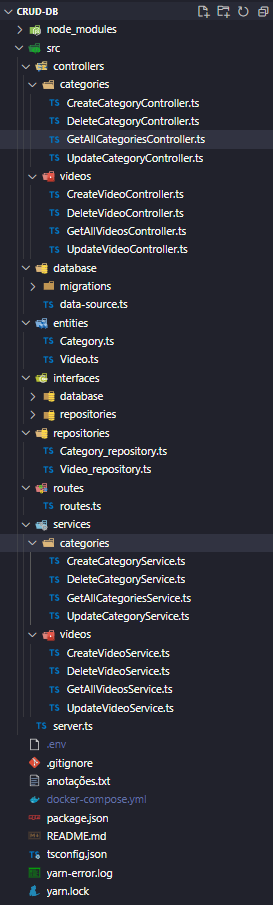
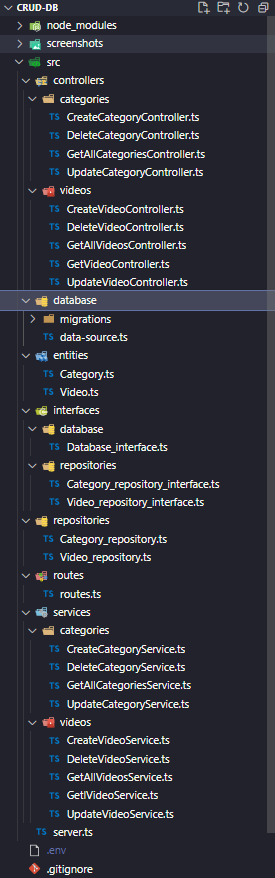
Att.

Changed region(s): [[0.0, 0.0, 1.0, 1.0], [0.7912, 0.0, 0.9084, 0.0308], [0.7033, 0.0, 0.7619, 0.0308]]

diff --git a/src/controllers/videos/GetVideoController.ts b/src/controllers/videos/GetVideoController.ts
@@ -1,6 +1,6 @@
 import { Request, Response } from "express";
 import { AppDataSource } from "../../database/data-source";
-import { GetVideoService } from "../../services/videos/GetlVideoService";
+import { GetVideoService } from "../../services/videos/GetVideoService";
 
 class GetVideoController {
     async handle(request: Request, response: Response) {

diff --git a/README.md b/README.md
@@ -122,6 +122,7 @@
             <p>DeleteCategoryService: https://prnt.sc/NIZfh3T5y9ks</p>
             <!-- Camada de Vídeos -->
             <p>CreateVideoService: https://prnt.sc/0JNx8h9XAS9D</p>
+            <p>GetVideoService: https://prnt.sc/zR6lsCsV9GLm</p>
             <p>GetAllVideosService: https://prnt.sc/NBx6ka13dy0p</p>
             <p>UpdateVideoService: https://prnt.sc/TTndF0wSLvHx</p>
             <p>DeleteVideoService: https://prnt.sc/QsyeAKNqppCy</p>
@@ -136,6 +137,7 @@
             <p>UpdateCategoryController: https://prnt.sc/e3X9yKOO-RN_</p>
             <!-- Camada de Vídeos -->
             <p>CreateVideoController: https://prnt.sc/QpDVFgLexidZ</p>
+            <p>GetVideoController: https://prnt.sc/hTb4XHE8sAVC</p>
             <p>GetAllVideosController: https://prnt.sc/TjHuvk0qgjGR</p>
             <p>UpdateVideoController: https://prnt.sc/KmvcDRUxp6DJ</p>
             <p>DeleteVideoController: https://prnt.sc/_CldiyAgQCaI</p>
@@ -151,12 +153,13 @@
             <!-- Camada de Vídeos -->
             <p>Rota (POST) "/videos": https://prnt.sc/sM7OU4DjOq4N</p>
             <p>Rota (GET) "/videos": https://prnt.sc/FxVLIdvCLJGN</p>
+            <p>Rota (GET) "/video/:id": https://prnt.sc/RE22iTCtxA-y</p>
             <p>Rota (UPDATE) "/video/:id": https://prnt.sc/_4H0mqM2zrxR</p>
             <p>Rota (DELETE) "/video/:id": https://prnt.sc/GMhJa1Dg97oU</p>
             <p>Habilitando rota no arquivo principal "server.ts": https://prnt.sc/FT3WldAOoEfn</p>
         </div>
         <div>
             <h2>Estrutura do POSTMAN</h2>
-            <p>Estrutura: https://prnt.sc/ZADxfi5UOlwO</p>
+            <p>Estrutura: https://prnt.sc/I5BsLEthafLb</p>
         </div>
 </div>
